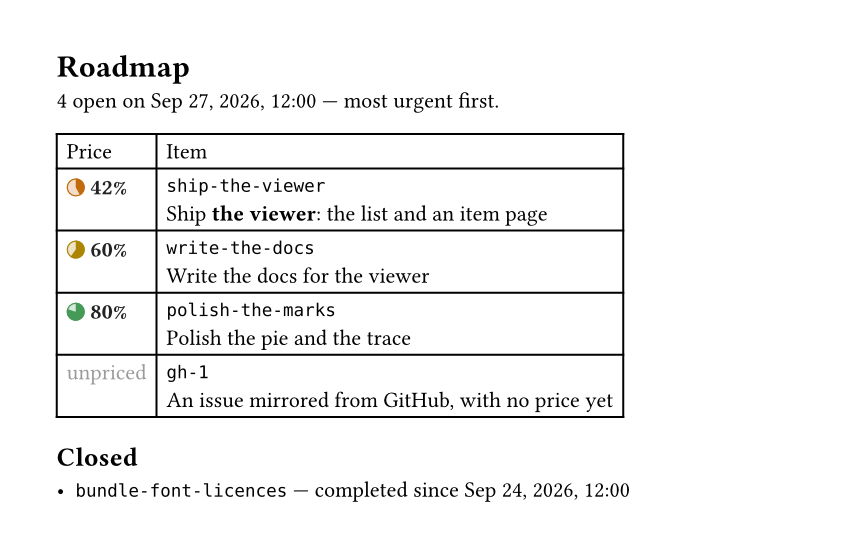
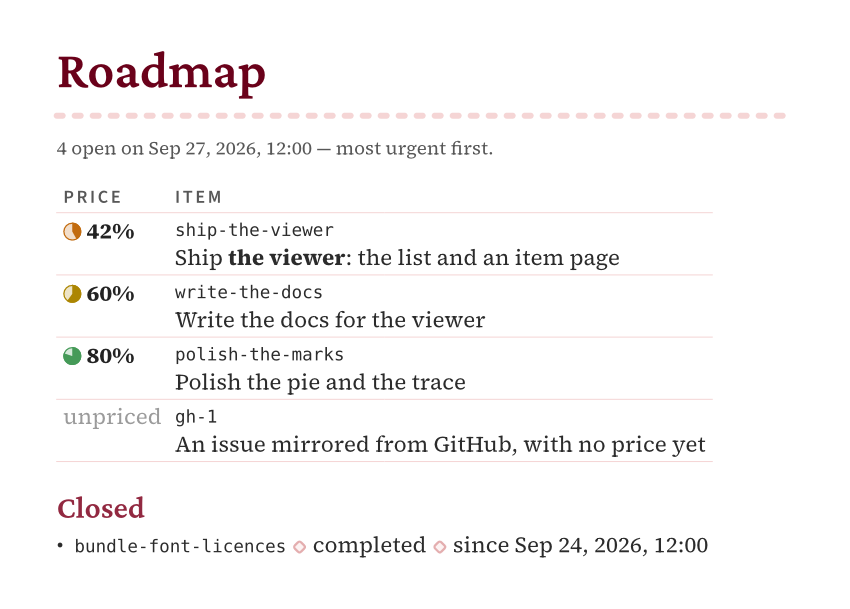
typst: the layouts in the design's type, rules and separators
`roadmap` and `item` are each `_look` over their layout: the design
system's serif in ink, headings in its display face on its ×1.2 type
scale and toned as its jobs sample the identity ramp, and tables as rows
on its quiet rule tone under `label-text` capitals. Set rules only, so in
HTML every element stays the element it is.

A capsule rule stands under each title, and the facts, the crumbs and a
closed item's state are joined by the diamond (`design.sep`). Both go
through `_on`: framed or an `hr.capsule` in HTML, a middle dot or nothing
where HTML cannot hold a drawing. The pictures are compiled with the
design's faces on the font path, and rendered again.

Changed region(s): [[0.0612, 0.0922, 0.9176, 0.7685], [0.0612, 0.7993, 0.8259, 0.9222]]

diff --git a/typst/README.md b/typst/README.md
@@ -97,3 +97,9 @@ store by the viewer's own `viewer/src/view.ts`.
 shows them verbatim, because nothing promises a store's text is Typst. In HTML
 export each piece carries a class (`roadmap`, `price`, `price unpriced`, `marks`,
 `explanation`, …) for a stylesheet to find.
+
+The layouts are set in the design system's look: its serif in ink, headings
+in its display face on its type scale, toned as its jobs sample the identity
+ramp; a capsule rule under each title (an `hr class="capsule"` in HTML, for a
+stylesheet to draw); the facts, the crumbs and a closed item's state joined
+by its diamond; tables as rows on its quiet rules, under sans capitals.
